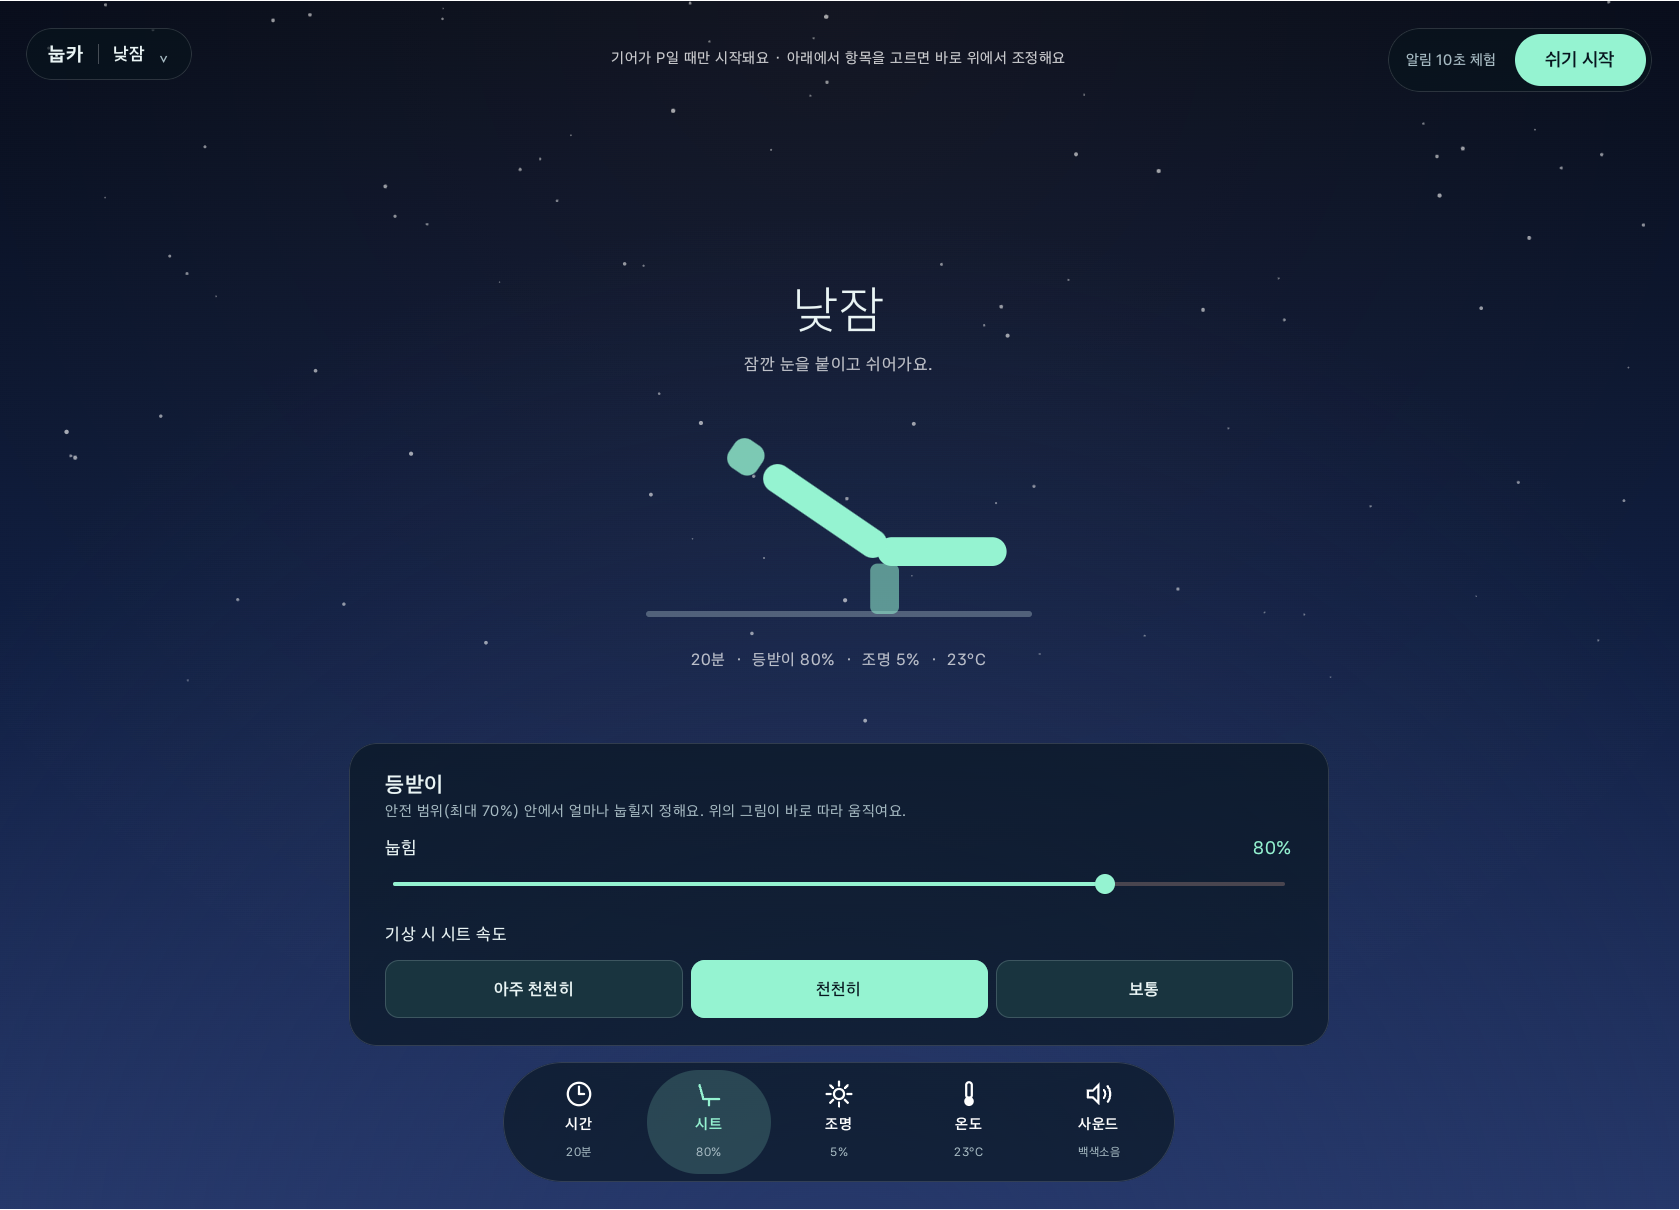
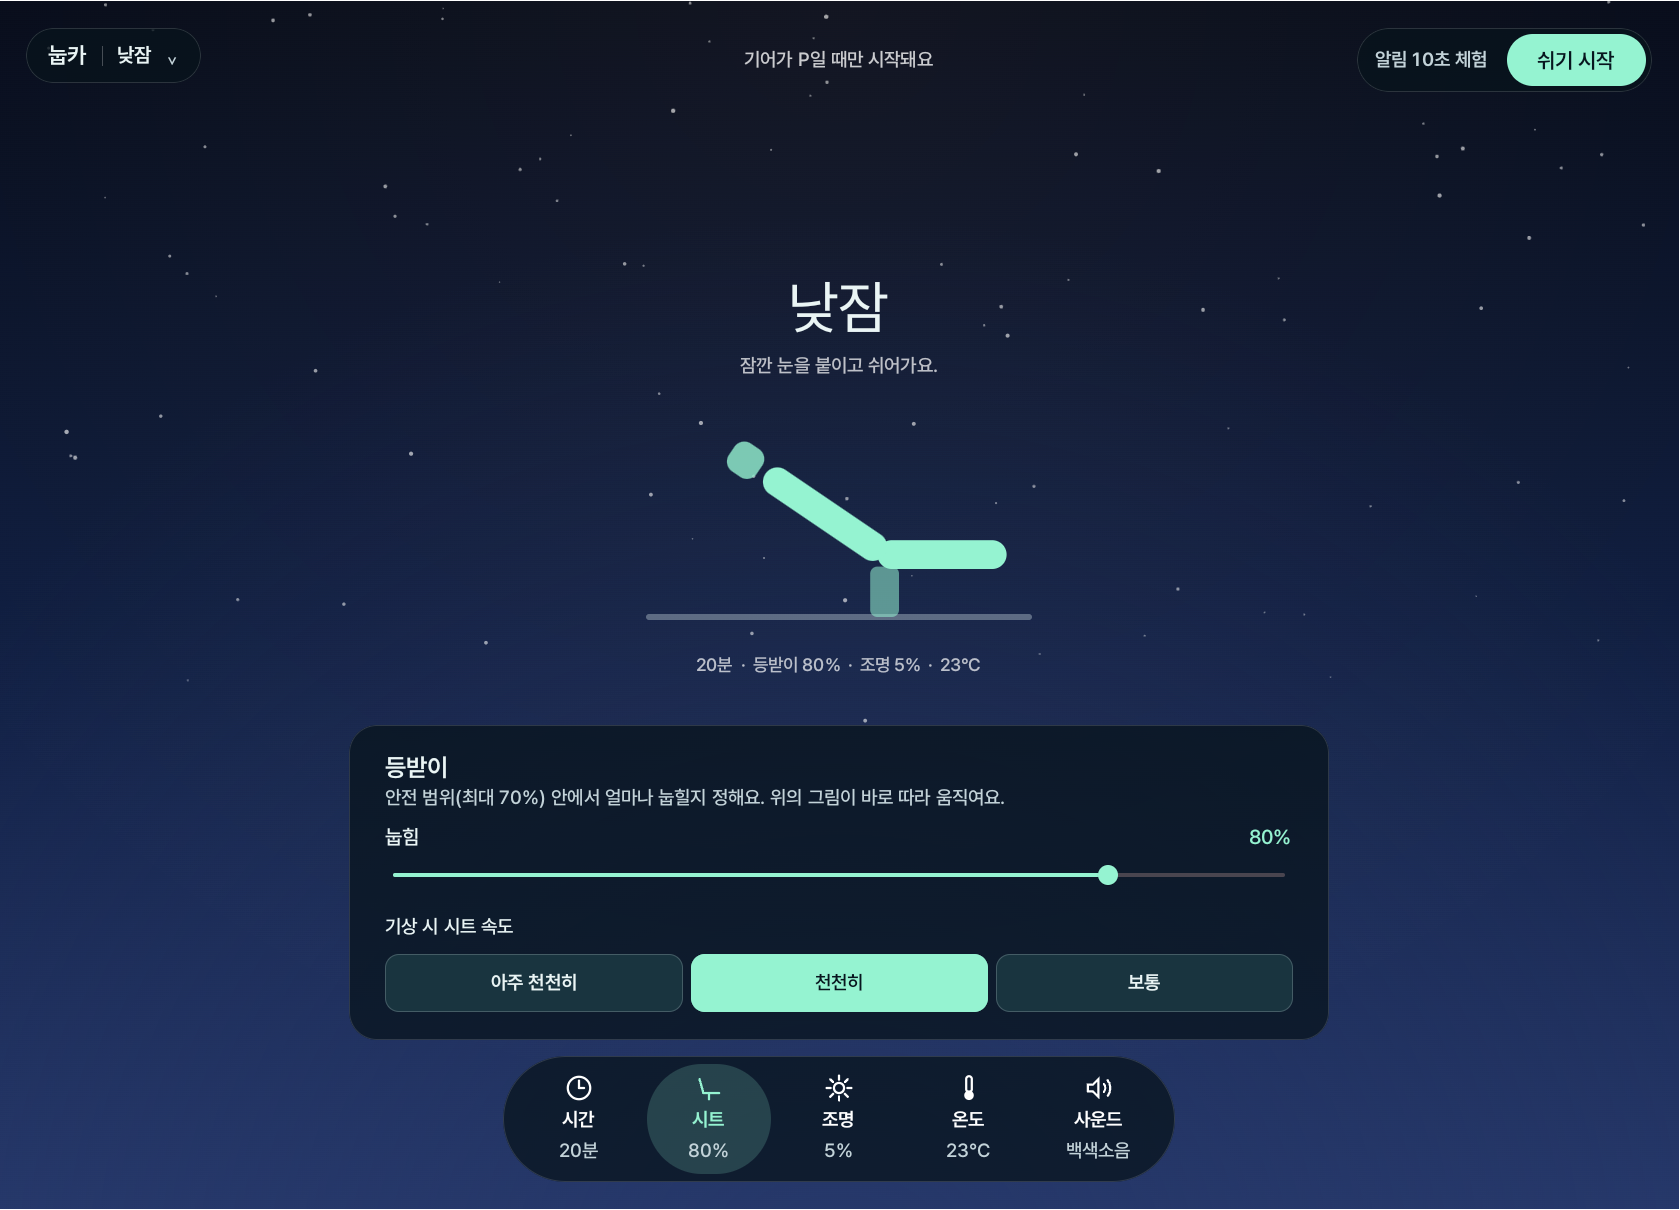
docs: retake README screenshots with the 1.2.3 UI

diff --git a/README.md b/README.md
@@ -7,7 +7,7 @@
 | ![아래 바에서 시트를 고른 눕카 설정 화면](docs/images/nupcar_scene_setting.png) | ![남은 시간이 가운데 크게 보이는 눕카 휴식 중 화면](docs/images/nupcar_scene_resting.png) |
 | 아래 바에서 **시트**를 고르면 바로 위에 조정 패널이 떠오르고, 가운데 등받이 그림이 설정 각도를 따라갑니다. | 휴식 중에는 남은 시간이 화면 가운데 크게 표시되고, 등받이 상태는 왼쪽 아래에 작게 보입니다. 아래 바에서 바로 일어나거나 멈출 수 있습니다. |
 
-*Pleos Connect Emulator v2.1.0에서 실행한 화면 (v1.2.1)*
+*Pleos Connect Emulator v2.1.0에서 실행한 화면 (v1.2.3)*
 
 > **에뮬레이터 제한 사항:** Pleos Connect Emulator v2.1.0에서는 등받이 이동 명령(`moveSeatBackrestAngle`)이 접수되지만 등받이 위치 값이 0으로 유지되고, 차량 화면에서도 등받이가 움직이지 않습니다. 그래서 앱은 등받이 동작을 **시각화 화면**으로 함께 보여 줍니다. 자세한 내용은 [에뮬레이터 제한 사항](#에뮬레이터-제한-사항)을 참고하세요.
 
